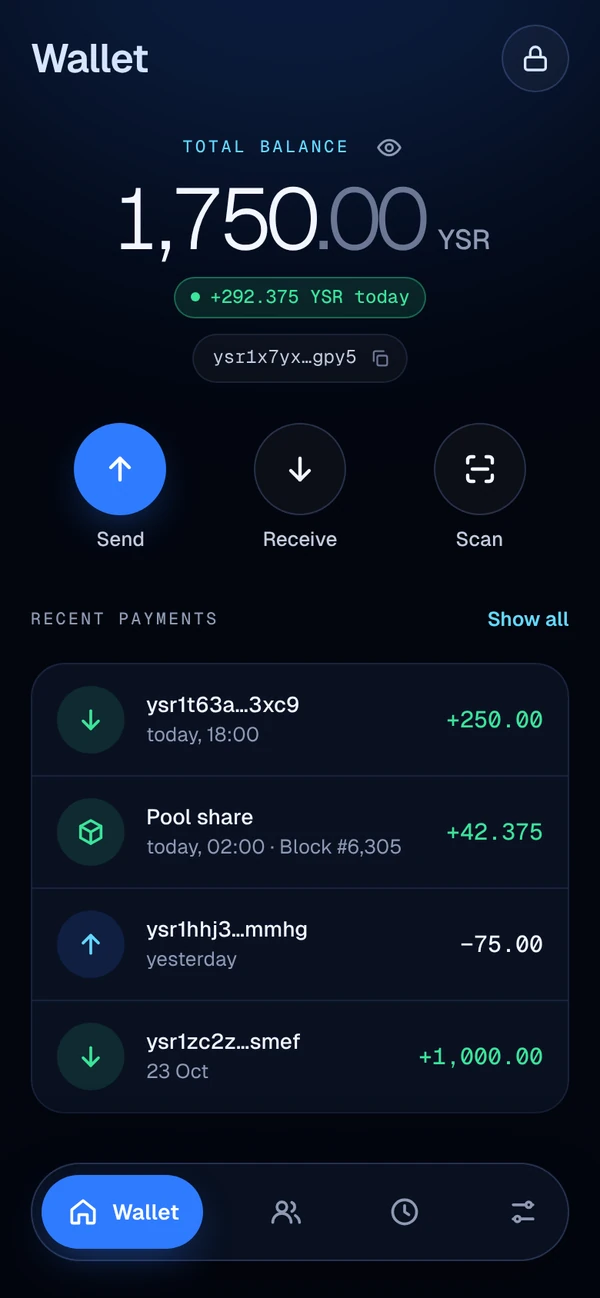
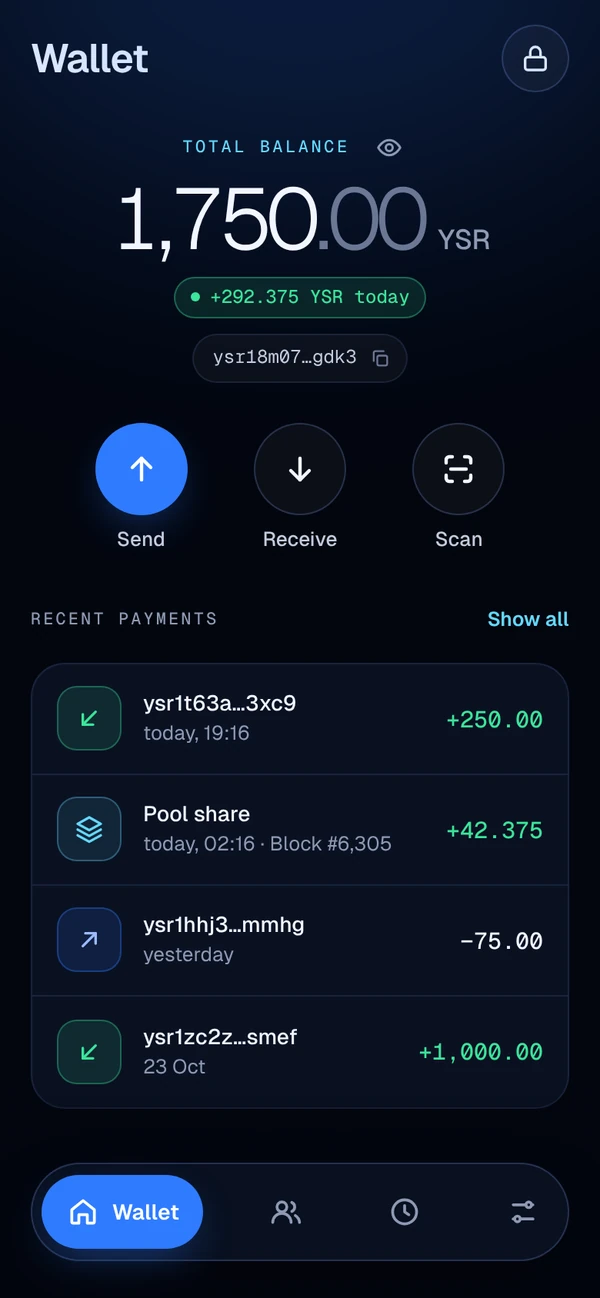
Website: Wallet-Screenshots aus dem aktuellen Bau (ohne Swap und Kurs, neue Symbole im Verlauf)

diff --git a/website/index.html b/website/index.html
@@ -224,7 +224,7 @@
 </div>
 <div class="schritt">
 <div class="buehne" aria-hidden="true">
-<div class="telefon in-buehne"><img src="/assets/img/wallet-woerter-en.webp?v=2" width="600" height="1298" alt="" data-ta="src:how.s3.bild" loading="lazy"></div>
+<div class="telefon in-buehne"><img src="/assets/img/wallet-woerter-en.webp?v=3" width="600" height="1298" alt="" data-ta="src:how.s3.bild" loading="lazy"></div>
 <span class="beispiel">YSKAR WALLET</span>
 </div>
 <div class="txt">
@@ -438,7 +438,7 @@
 <p class="leise klein-notiz" data-t="use.wallet.bildNotiz">Example view: amounts and addresses are examples.</p>
 <a class="weiter" href="/anleitungen#wallet"><span data-t="use.mehr">Learn more</span> →</a>
 </div>
-<div class="telefon"><img src="/assets/img/wallet-start-en.webp?v=2" width="600" height="1298" alt="Home screen of the YSKAR Wallet with balance, send, receive, scan and recent payments" data-ta="alt:use.wallet.bildAlt;src:use.wallet.bild" loading="lazy"></div>
+<div class="telefon"><img src="/assets/img/wallet-start-en.webp?v=3" width="600" height="1298" alt="Home screen of the YSKAR Wallet with balance, send, receive, scan and recent payments" data-ta="alt:use.wallet.bildAlt;src:use.wallet.bild" loading="lazy"></div>
 </article>
 <article class="kachel k-5" id="adresse">
 <h3 data-t="nav.explorer">Explorer</h3>

diff --git a/website/assets/i18n/de.js b/website/assets/i18n/de.js
@@ -676,11 +676,11 @@
   "pr.db.knoten": "Full Nodes",
   "pr.db.knotenWert": "jeder hält und prüft die ganze Kette",
   "nav.menge": "Menge",
-  "use.wallet.bild": "/assets/img/wallet-start-de.webp?v=2",
+  "use.wallet.bild": "/assets/img/wallet-start-de.webp?v=3",
   "use.wallet.bildAlt": "Startbildschirm der YSKAR Wallet mit Guthaben, Senden, Empfangen, Scannen und letzten Zahlungen",
   "use.wallet.bildNotiz": "Beispielansicht: Beträge und Adressen sind Beispiele.",
   "use.wallet.text": "YSR senden und empfangen, QR-Codes scannen, Kontakte anlegen und jede Zahlung im Blick behalten. Bestehende Wallets übernimmst du einfach mit deinen 12 Wörtern.",
-  "how.s3.bild": "/assets/img/wallet-woerter-de.webp?v=2",
+  "how.s3.bild": "/assets/img/wallet-woerter-de.webp?v=3",
   "chk.kopf": "Prüf es selbst",
   "chk.text": "Dein Browser setzt die 136 Byte eines Blockkopfs zusammen, bildet zweimal SHA-256 und vergleicht das Ergebnis mit dem Blockhash und dem Ziel. Für das Ergebnis wird kein Server gefragt.",
   "chk.knopf0": "Block 0 prüfen",

diff --git a/website/assets/i18n/en.js b/website/assets/i18n/en.js
@@ -676,11 +676,11 @@
   "pr.db.knoten": "Full nodes",
   "pr.db.knotenWert": "each keeps and checks the whole chain",
   "nav.menge": "Supply",
-  "use.wallet.bild": "/assets/img/wallet-start-en.webp?v=2",
+  "use.wallet.bild": "/assets/img/wallet-start-en.webp?v=3",
   "use.wallet.bildAlt": "Home screen of the YSKAR Wallet with balance, send, receive, scan and recent payments",
   "use.wallet.bildNotiz": "Example view: amounts and addresses are examples.",
   "use.wallet.text": "Send and receive YSR, scan QR codes, keep contacts and see every payment. Bring an existing wallet over with your 12 words.",
-  "how.s3.bild": "/assets/img/wallet-woerter-en.webp?v=2",
+  "how.s3.bild": "/assets/img/wallet-woerter-en.webp?v=3",
   "chk.kopf": "Check it yourself",
   "chk.text": "Your browser puts the 136 bytes of a block header together, hashes them twice with SHA-256 and compares the result with the block hash and the target. No server is asked for the result.",
   "chk.knopf0": "Check block 0",
